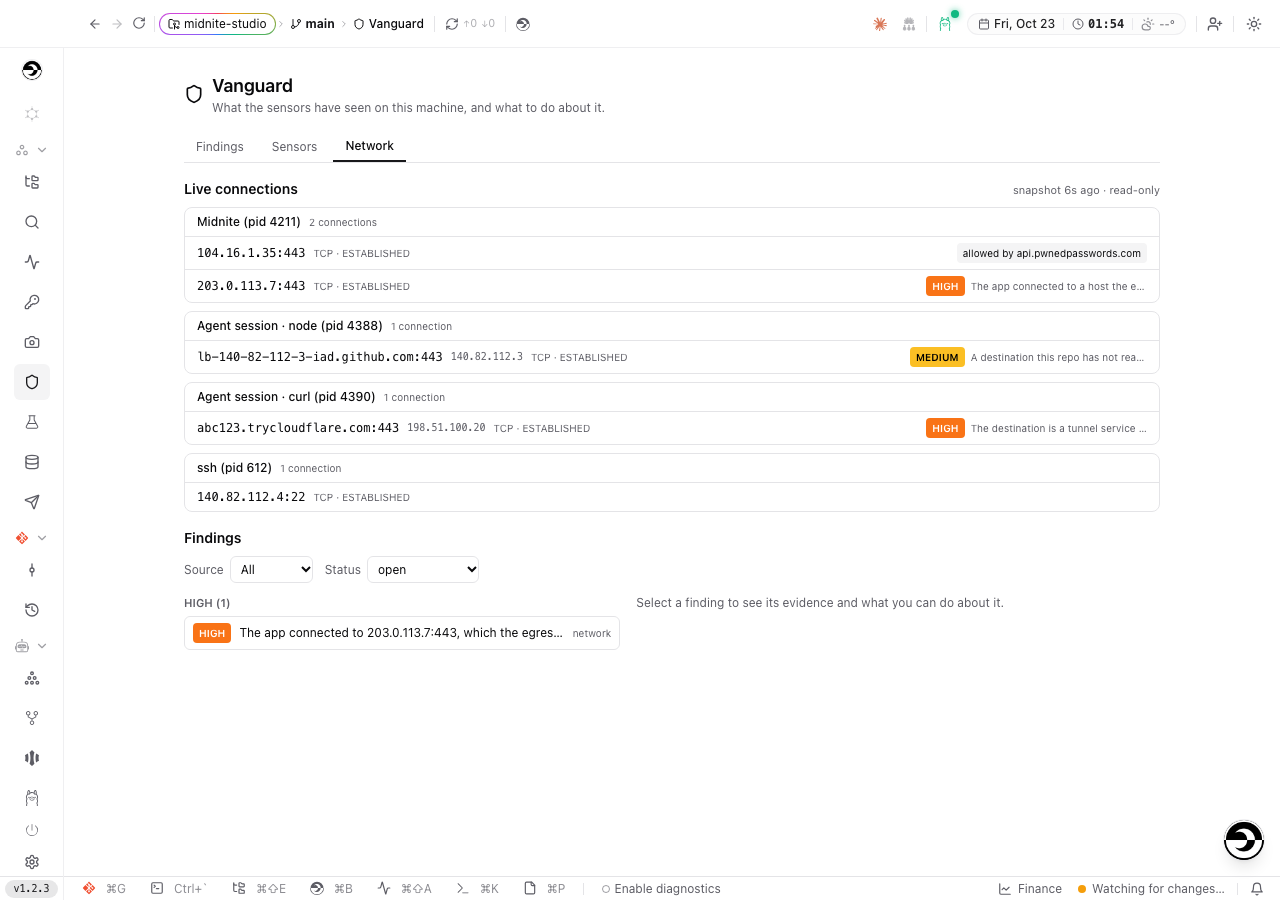
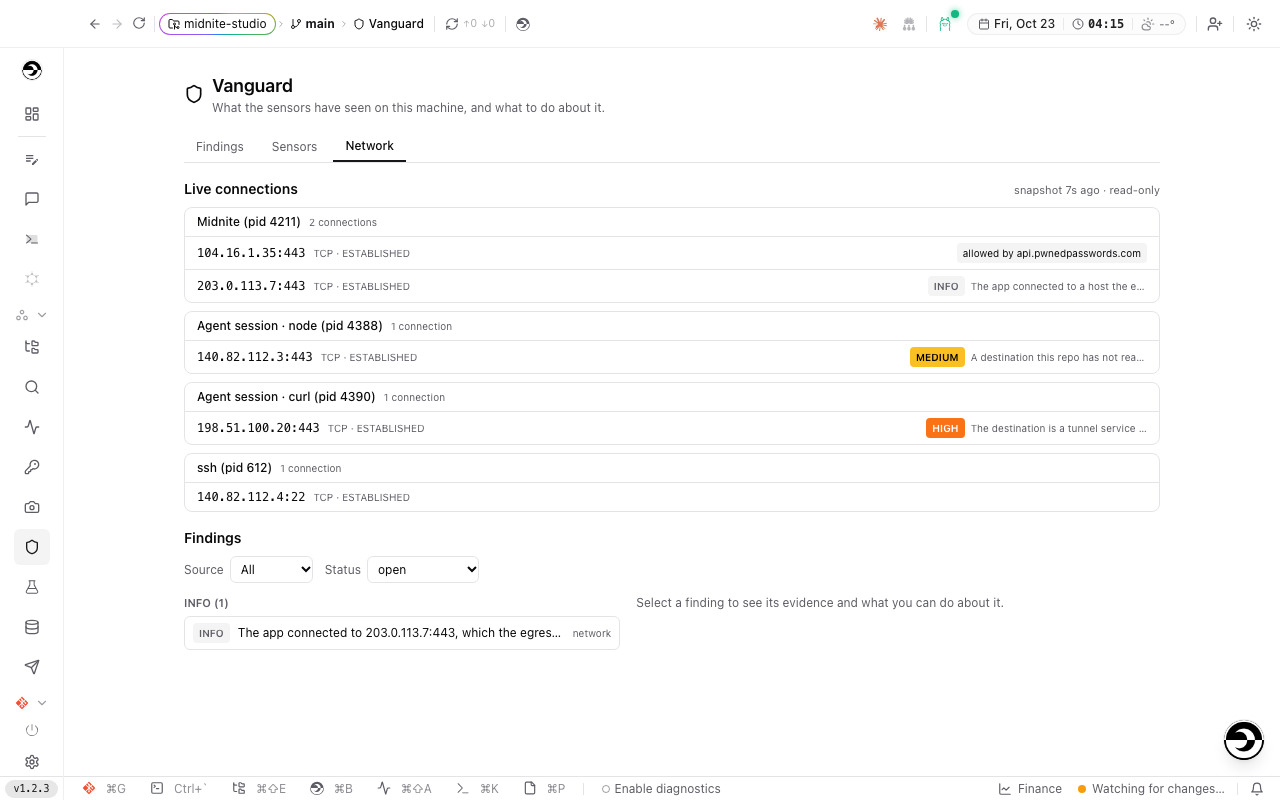
fix(vanguard): retake Network screenshot, info finding in mock, catch connections refetch (self-review)

diff --git a/packages/features/vanguard/main/network/classify.test.ts b/packages/features/vanguard/main/network/classify.test.ts
@@ -14,9 +14,9 @@ describe('classifyAgentDestination', () => {
     expect(verdict.reasons[0]).toMatch(/no valid code signature/);
   });
 
-  it('has no raw-IP rung: an address alone, named or not, never raises the severity', () => {
+  it('has no raw-IP rung: with no signature or threat hit, nothing raises the severity', () => {
     // Deferred to Phase 122: deciding it needs a reverse lookup, which this app does not make.
-    expect(classifyAgentDestination({ address: '203.0.113.9' } as never).severity).toBe('medium');
+    expect(classifyAgentDestination({}).severity).toBe('medium');
   });
 
   it('is high for a paste site, a tunnel and an exfiltration shape', () => {

diff --git a/packages/app/test-support/mock-bridge.ts b/packages/app/test-support/mock-bridge.ts
@@ -4638,7 +4638,7 @@ export function buildMockBridge(data: MockFixtures) {
               id: 'f3',
               fingerprint: 'fp-3',
               source: 'vanguard' as const,
-              severity: 'high' as const,
+              severity: 'info' as const,
               category: 'network' as const,
               title: 'The app connected to 203.0.113.7:443, which the egress registry does not list',
               detail:

diff --git a/packages/features/vanguard/renderer/use-vanguard.ts b/packages/features/vanguard/renderer/use-vanguard.ts
@@ -99,7 +99,8 @@ export function useConnections(): { snapshot: VanguardConnectionsResponse; loade
           if (!live) return;
           setSnapshot(next);
           setLoaded(true);
-        });
+        })
+        .catch(() => undefined);
     };
     refetch();
     const off = bridge()?.vanguard.onChanged(refetch);
